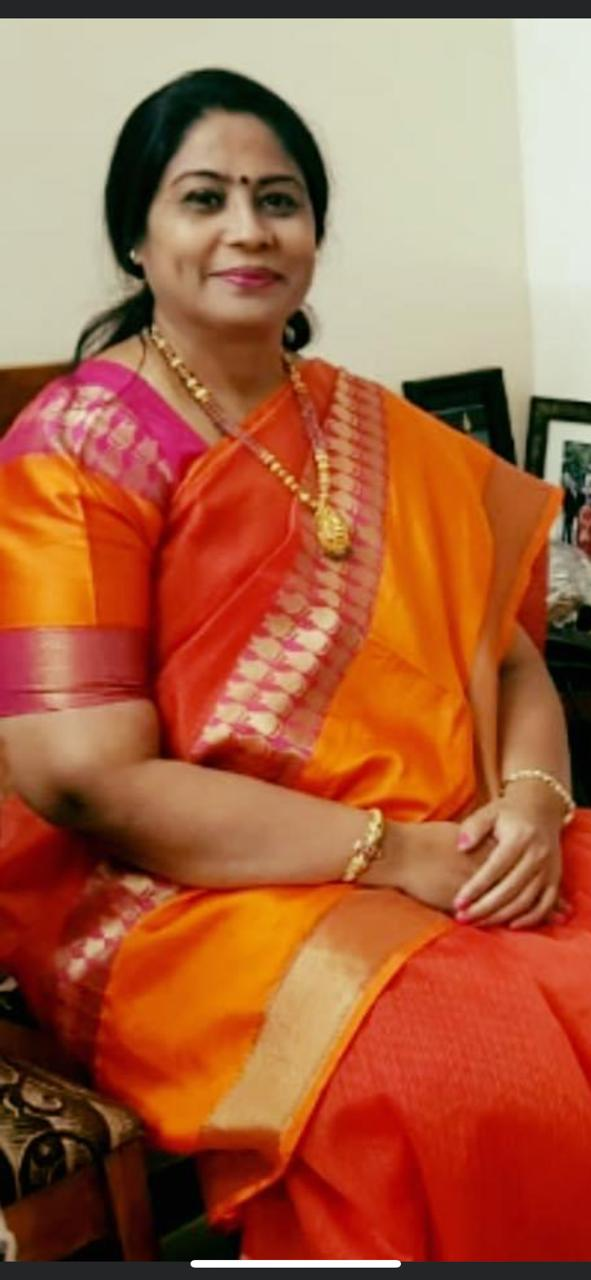
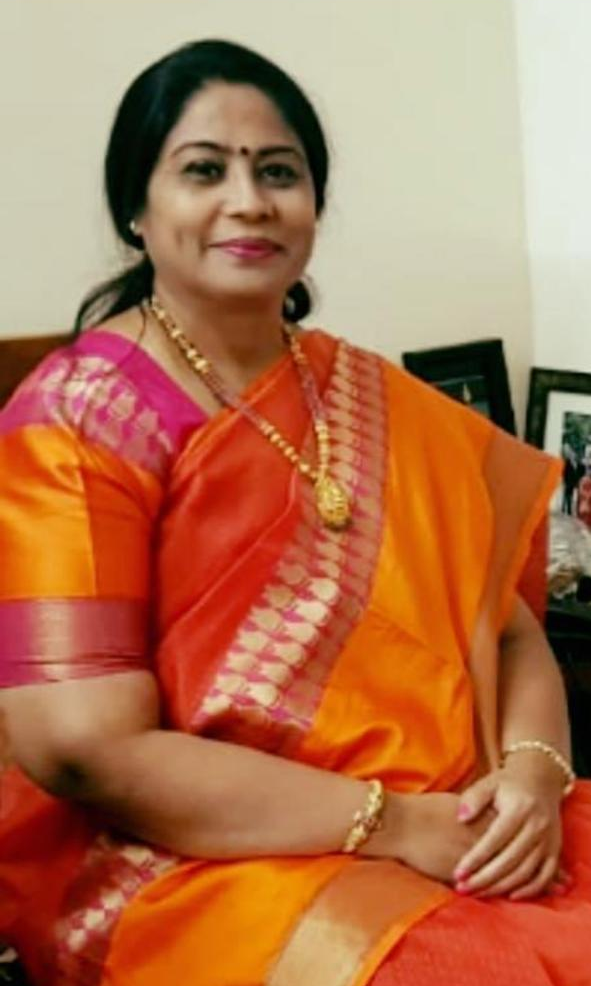
2.7

diff --git a/management.html b/management.html
@@ -124,17 +124,21 @@
     }
     .leader-card-img-wrap {
       position: relative;
-      height: 260px;
-      background: linear-gradient(135deg, rgba(26,58,110,0.1), rgba(37,84,160,0.2));
+      aspect-ratio: 4 / 5;
+      height: auto;
+      background: linear-gradient(135deg, rgba(26,58,110,0.07), rgba(37,84,160,0.12));
       overflow: hidden;
+      display: block;
     }
     .leader-card-img-wrap img {
       width: 100%;
       height: 100%;
       object-fit: cover;
-      object-position: center top;
+      object-position: center 18%;
       display: block;
     }
+    .leader-photo-chairman { object-position: center 16%; }
+    .leader-photo-principal { object-position: center 14%; }
     .leader-card-img-placeholder {
       position: absolute;
       top: 0; left: 0; right: 0; bottom: 0;
@@ -413,7 +417,6 @@
     @media (max-width: 900px) {
       .leadership-grid { grid-template-columns: 1fr; }
       .team-grid { grid-template-columns: repeat(2, 1fr); }
-      .leader-card-img-wrap { height: 260px; }
     }
     @media (max-width: 600px) {
       .team-grid { grid-template-columns: 1fr; }
@@ -479,7 +482,7 @@
             </a>
           </div>
         </li>
-        <li class="nav-item"><a href="program.html" class="nav-link" data-nav="program">program</a></li>
+        <li class="nav-item"><a href="program.html" class="nav-link" data-nav="program">Program</a></li>
         <li class="nav-item"><a href="facilities.html" class="nav-link" data-nav="facilities">Facilities</a></li>
         <li class="nav-item"><a href="gallery.html" class="nav-link" data-nav="gallery">Gallery</a></li>
         <li class="nav-item"><a href="contact.html" class="nav-link" data-nav="contact">Contact</a></li>
@@ -539,47 +542,36 @@
           <div class="leader-card" data-reveal>
             <div class="leader-card-img-wrap">
               <!-- PASTE IMAGE HERE: assets/images/management-chairman.jpg -->
-              <img src="components/images/Founder.png"
+              <img src="components/images/Founder.png" class="leader-photo-chairman"
                 alt="Shri. Suresh B. Gowda — Founder & Chairman, SBG Group"
-                style="width:100%;height:100%;object-fit:cover;object-position:center top;display:block;" />
+                style="width:100%;height:100%;display:block;" />
               <span class="leader-badge">Chairman &amp; Founder</span>
             </div>
             <div class="leader-card-body">
               <!-- EDIT NAME -->
-              <div class="leader-card-name">Shri. Suresh B. Gowda</div>
+              <div class="leader-card-name">SHRI SHAMA B. GHATAGE</div>
               <div class="leader-card-title">Chairman &amp; Founder, SBG Groups</div>
               <!-- EDIT THIS CONTENT -->
               
-              <div class="leader-card-socials">
-                <a href="#" aria-label="LinkedIn"><i class="fa-brands fa-linkedin-in"></i></a>
-                <a href="#" aria-label="Email"><i class="fa-regular fa-envelope"></i></a>
-              </div>
+              
             </div>
           </div>
 
           <!-- Director / Principal -->
           <div class="leader-card" data-reveal>
             <div class="leader-card-img-wrap">
-              <img src="components/images/Cofounder.png"
+              <img src="components/images/Cofounder.png" class="leader-photo-principal"
                 alt="Dr. Priya R. Kulkarni — Principal & Academic Director"
-                style="width:100%;height:100%;object-fit:cover;object-position:center top;display:block;" />
-              <span class="leader-badge">Principal</span>
+                style="width:100%;height:100%;display:block;" />
+              <span class="leader-badge">CO-FOUNDER</span>
             </div>
             <div class="leader-card-body">
               <!-- EDIT NAME -->
-              <div class="leader-card-name">Dr. Priya R. Kulkarni</div>
-              <div class="leader-card-title">Principal &amp; Academic Director</div>
+              <div class="leader-card-name">SMT. ASHA B. GHATAGE</div>
+              <div class="leader-card-title">CO- FOUNDER , SBG GROUPS</div>
               <!-- EDIT THIS CONTENT -->
-              <p class="leader-card-desc">
-                A PhD in Computer Science with 22 years of academic and research experience, Dr. Priya
-                R. Kulkarni leads the college's academic strategy, curriculum development, and faculty
-                excellence initiatives. Under her leadership, the college has achieved a 95% placement
-                record and forged partnerships with leading technology companies across India.
-              </p>
-              <div class="leader-card-socials">
-                <a href="#" aria-label="LinkedIn"><i class="fa-brands fa-linkedin-in"></i></a>
-                <a href="#" aria-label="Email"><i class="fa-regular fa-envelope"></i></a>
-              </div>
+              <!-- Paragraph removed as requested -->
+             
             </div>
           </div>
 
@@ -768,7 +760,7 @@
           <ul>
             <li><a href="../index.html"><i class="fa-solid fa-chevron-right" aria-hidden="true"></i> Home</a></li>
             <li><a href="about.html"><i class="fa-solid fa-chevron-right" aria-hidden="true"></i> About Us</a></li>
-            <li><a href="program.html"><i class="fa-solid fa-chevron-right" aria-hidden="true"></i> program</a></li>
+            <li><a href="program.html"><i class="fa-solid fa-chevron-right" aria-hidden="true"></i> Program</a></li>
             <li><a href="facilities.html"><i class="fa-solid fa-chevron-right" aria-hidden="true"></i> Facilities</a></li>
             <li><a href="gallery.html"><i class="fa-solid fa-chevron-right" aria-hidden="true"></i> Gallery</a></li>
             <li><a href="contact.html"><i class="fa-solid fa-chevron-right" aria-hidden="true"></i> Contact Us</a></li>

diff --git a/facilities.html b/facilities.html
@@ -489,77 +489,7 @@
             </div>
           </div>
 
-          <!-- Cafeteria -->
-          <div class="fac-card" data-reveal>
-            <div class="fac-card-img">
-              <!-- PASTE IMAGE HERE: assets/images/facility-cafeteria.jpg -->
-              <img src="../components/images/sittingArea.png"
-                alt="College cafeteria" loading="lazy" />
-              <div class="fac-card-badge" aria-hidden="true"><i class="fa-solid fa-utensils"></i></div>
-            </div>
-            <div class="fac-card-body">
-              <h3 class="fac-card-title">Cafeteria</h3>
-              <p class="fac-card-desc">
-                <!-- EDIT THIS CONTENT -->
-                A clean, hygienic cafeteria serving freshly prepared meals, snacks, and beverages at
-                affordable prices. Separate vegetarian and non-vegetarian counters, a juice bar, and
-                air-conditioned seating for 150 students.
-              </p>
-              <div class="fac-card-meta">
-                <span class="fac-meta-chip"><i class="fa-solid fa-leaf"></i> Veg &amp; Non-Veg</span>
-                <span class="fac-meta-chip"><i class="fa-solid fa-chair"></i> 150 Seats</span>
-                <span class="fac-meta-chip"><i class="fa-solid fa-snowflake"></i> Air Conditioned</span>
-              </div>
-            </div>
-          </div>
-
-          <!-- Sports -->
-          <div class="fac-card" data-reveal>
-            <div class="fac-card-img">
-              <!-- PASTE IMAGE HERE: assets/images/facility-sports.jpg -->
-              <img src="../components/images/building.png"
-                alt="Sports facilities" loading="lazy" />
-              <div class="fac-card-badge" aria-hidden="true"><i class="fa-solid fa-person-running"></i></div>
-            </div>
-            <div class="fac-card-body">
-              <h3 class="fac-card-title">Sports Complex</h3>
-              <p class="fac-card-desc">
-                <!-- EDIT THIS CONTENT -->
-                A comprehensive sports complex with both indoor and outdoor facilities. Includes a cricket
-                ground, football field, badminton courts, table tennis, chess zone, and a fully equipped
-                indoor gymnasium — promoting physical health alongside academic excellence.
-              </p>
-              <div class="fac-card-meta">
-                <span class="fac-meta-chip"><i class="fa-solid fa-futbol"></i> Outdoor Courts</span>
-                <span class="fac-meta-chip"><i class="fa-solid fa-table-tennis-paddle-ball"></i> Indoor Games</span>
-                <span class="fac-meta-chip"><i class="fa-solid fa-dumbbell"></i> Gymnasium</span>
-              </div>
-            </div>
-          </div>
-
-          <!-- Wi-Fi Campus -->
-          <div class="fac-card" data-reveal>
-            <div class="fac-card-img">
-              <!-- PASTE IMAGE HERE: assets/images/facility-campus.jpg -->
-              <img src="../components/images/building.png"
-                alt="College campus" loading="lazy" />
-              <div class="fac-card-badge" aria-hidden="true"><i class="fa-solid fa-wifi"></i></div>
-            </div>
-            <div class="fac-card-body">
-              <h3 class="fac-card-title">Wi-Fi Enabled Campus</h3>
-              <p class="fac-card-desc">
-                <!-- EDIT THIS CONTENT -->
-                The entire campus — classrooms, corridors, library, hostels, and open spaces — is covered
-                by high-speed Wi-Fi with 1 Gbps fibre connectivity. Students enjoy uninterrupted internet
-                access for research, online courses, and collaborative projects.
-              </p>
-              <div class="fac-card-meta">
-                <span class="fac-meta-chip"><i class="fa-solid fa-bolt"></i> 1 Gbps Fibre</span>
-                <span class="fac-meta-chip"><i class="fa-solid fa-signal"></i> Full Campus</span>
-                <span class="fac-meta-chip"><i class="fa-solid fa-clock"></i> 24/7 Access</span>
-              </div>
-            </div>
-          </div>
+      
 
         </div><!-- /.facility-cards-grid -->
       </div>
@@ -768,7 +698,7 @@
           <ul>
             <li><a href="../index.html"><i class="fa-solid fa-chevron-right"></i> Home</a></li>
             <li><a href="about.html"><i class="fa-solid fa-chevron-right"></i> About Us</a></li>
-            <li><a href="program.html"><i class="fa-solid fa-chevron-right"></i> program</a></li>
+            <li><a href="program.html"><i class="fa-solid fa-chevron-right"></i> Program</a></li>
             <li><a href="facilities.html"><i class="fa-solid fa-chevron-right"></i> Facilities</a></li>
             <li><a href="gallery.html"><i class="fa-solid fa-chevron-right"></i> Gallery</a></li>
             <li><a href="contact.html"><i class="fa-solid fa-chevron-right"></i> Contact Us</a></li>

diff --git a/about.html b/about.html
@@ -581,7 +581,7 @@
             </a>
           </div>
         </li>
-        <li class="nav-item"><a href="program.html" class="nav-link" data-nav="program">program</a></li>
+        <li class="nav-item"><a href="program.html" class="nav-link" data-nav="program">Program</a></li>
         <li class="nav-item"><a href="facilities.html" class="nav-link" data-nav="facilities">Facilities</a></li>
         <li class="nav-item"><a href="gallery.html" class="nav-link" data-nav="gallery">Gallery</a></li>
         <li class="nav-item"><a href="contact.html" class="nav-link" data-nav="contact">Contact</a></li>
@@ -954,7 +954,7 @@
           <ul>
             <li><a href="../index.html"><i class="fa-solid fa-chevron-right" aria-hidden="true"></i> Home</a></li>
             <li><a href="about.html"><i class="fa-solid fa-chevron-right" aria-hidden="true"></i> About Us</a></li>
-            <li><a href="program.html"><i class="fa-solid fa-chevron-right" aria-hidden="true"></i> program</a></li>
+            <li><a href="program.html"><i class="fa-solid fa-chevron-right" aria-hidden="true"></i> Program</a></li>
             <li><a href="facilities.html"><i class="fa-solid fa-chevron-right" aria-hidden="true"></i> Facilities</a>
             </li>
             <li><a href="gallery.html"><i class="fa-solid fa-chevron-right" aria-hidden="true"></i> Gallery</a></li>

diff --git a/contact.html b/contact.html
@@ -420,7 +420,7 @@
             </a>
           </div>
         </li>
-        <li class="nav-item"><a href="program.html" class="nav-link" data-nav="program">program</a></li>
+        <li class="nav-item"><a href="program.html" class="nav-link" data-nav="program">Program</a></li>
         <li class="nav-item"><a href="facilities.html" class="nav-link" data-nav="facilities">Facilities</a></li>
         <li class="nav-item"><a href="gallery.html" class="nav-link" data-nav="gallery">Gallery</a></li>
         <li class="nav-item"><a href="contact.html" class="nav-link active" data-nav="contact">Contact</a></li>
@@ -780,7 +780,7 @@
           <ul>
             <li><a href="../index.html"><i class="fa-solid fa-chevron-right"></i> Home</a></li>
             <li><a href="about.html"><i class="fa-solid fa-chevron-right"></i> About Us</a></li>
-            <li><a href="program.html"><i class="fa-solid fa-chevron-right"></i> program</a></li>
+            <li><a href="program.html"><i class="fa-solid fa-chevron-right"></i> Program</a></li>
             <li><a href="facilities.html"><i class="fa-solid fa-chevron-right"></i> Facilities</a></li>
             <li><a href="gallery.html"><i class="fa-solid fa-chevron-right"></i> Gallery</a></li>
             <li><a href="contact.html"><i class="fa-solid fa-chevron-right"></i> Contact Us</a></li>

diff --git a/index.html b/index.html
@@ -100,7 +100,7 @@
             </a>
           </div>
         </li>
-        <li class="nav-item"><a href="program.html" class="nav-link" data-nav="program">program</a></li>
+        <li class="nav-item"><a href="program.html" class="nav-link" data-nav="program">Program</a></li>
         <li class="nav-item"><a href="facilities.html" class="nav-link" data-nav="facilities">Facilities</a></li>
         <li class="nav-item"><a href="gallery.html" class="nav-link" data-nav="gallery">Gallery</a></li>
         <li class="nav-item"><a href="contact.html" class="nav-link" data-nav="contact">Contact</a></li>
@@ -344,7 +344,7 @@
                 120 Seats
               </div>
             </div>
-            <a href="programs.html" class="program-card-link" id="bcaLearnMore">
+            <a href="program.html" class="program-card-link" id="bcaLearnMore">
               Learn More
               <svg width="16" height="16" viewBox="0 0 24 24" fill="none" stroke="currentColor" stroke-width="2"
                 aria-hidden="true">

diff --git a/gallery.html b/gallery.html
@@ -345,7 +345,7 @@
             </a>
           </div>
         </li>
-        <li class="nav-item"><a href="program.html" class="nav-link" data-nav="program">program</a></li>
+        <li class="nav-item"><a href="program.html" class="nav-link" data-nav="program">Program</a></li>
         <li class="nav-item"><a href="facilities.html" class="nav-link" data-nav="facilities">Facilities</a></li>
         <li class="nav-item"><a href="gallery.html" class="nav-link active" data-nav="gallery">Gallery</a></li>
         <li class="nav-item"><a href="contact.html" class="nav-link" data-nav="contact">Contact</a></li>

diff --git a/founders-desk.html b/founders-desk.html
@@ -435,7 +435,7 @@
             </a>
           </div>
         </li>
-        <li class="nav-item"><a href="program.html" class="nav-link" data-nav="program">program</a></li>
+        <li class="nav-item"><a href="program.html" class="nav-link" data-nav="program">Program</a></li>
         <li class="nav-item"><a href="facilities.html" class="nav-link" data-nav="facilities">Facilities</a></li>
         <li class="nav-item"><a href="gallery.html" class="nav-link" data-nav="gallery">Gallery</a></li>
         <li class="nav-item"><a href="contact.html" class="nav-link" data-nav="contact">Contact</a></li>

diff --git a/program.html b/program.html
@@ -19,7 +19,7 @@
   <meta property="og:description"
     content="Flagship 3-year BCA program at SBG BCA College, Belagavi — practical learning, modern labs, and strong placement support." />
   <meta property="og:type" content="website" />
-  <meta property="og:url" content="https://sbgbca.edu.in/programs.html" />
+  <meta property="og:url" content="https://sbgbca.edu.in/program.html" />
 
   <!-- Favicon -->
   <link rel="icon" type="image/png" href="components/images/logo-favicon.png" />
